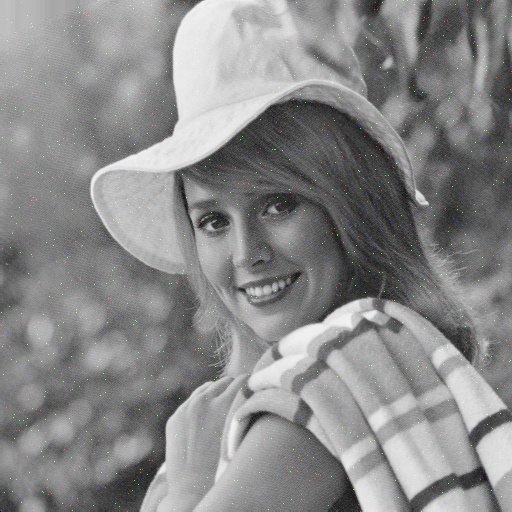
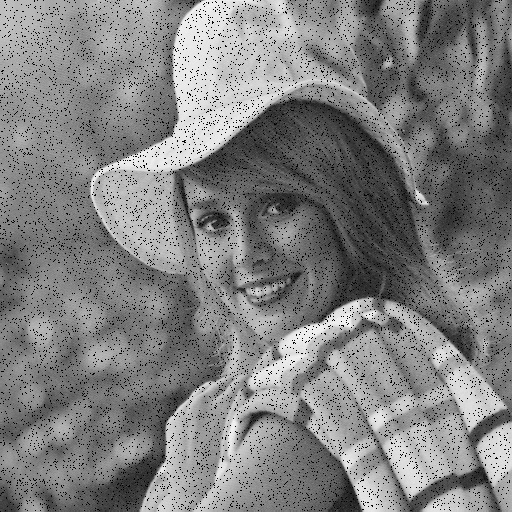
Заменил алгоритм внесения искажений с гауссовского шума на импульсный

diff --git a/Lab_1/client.py b/Lab_1/client.py
@@ -3,18 +3,31 @@ import numpy as np
 import requests
 
 
-def add_gaussian_noise(image):
-    mean = 0
-    sigma = 0.36
-    gauss = np.random.normal(mean, sigma, image.shape).astype('uint8')
-    noisy_image = cv2.add(image, gauss)
+# def add_gaussian_noise(image):
+#     mean = 0
+#     sigma = 0.36
+#     gauss = np.random.normal(mean, sigma, image.shape).astype('uint8')
+#     noisy_image = cv2.add(image, gauss)
+#     return noisy_image
+
+
+def add_salt_and_pepper_noise(image, salt_prob=0.01, pepper_prob=0.01):
+    noisy_image = np.copy(image)
+    num_salt = np.ceil(salt_prob * image.size)
+    coordinates = [np.random.randint(0, i - 1, int(num_salt)) for i in image.shape]
+    noisy_image[coordinates[0], coordinates[1], :] = 1
+
+    num_pepper = np.ceil(pepper_prob * image.size)
+    coordinates = [np.random.randint(0, i - 1, int(num_pepper)) for i in image.shape]
+    noisy_image[coordinates[0], coordinates[1], :] = 0
+
     return noisy_image
 
 
 def main():
     image = cv2.imread('images/07_elaine.tif')
 
-    noisy_image = add_gaussian_noise(image)
+    noisy_image = add_salt_and_pepper_noise(image)
 
     cv2.imwrite('noisy_image.jpg', noisy_image)
 
